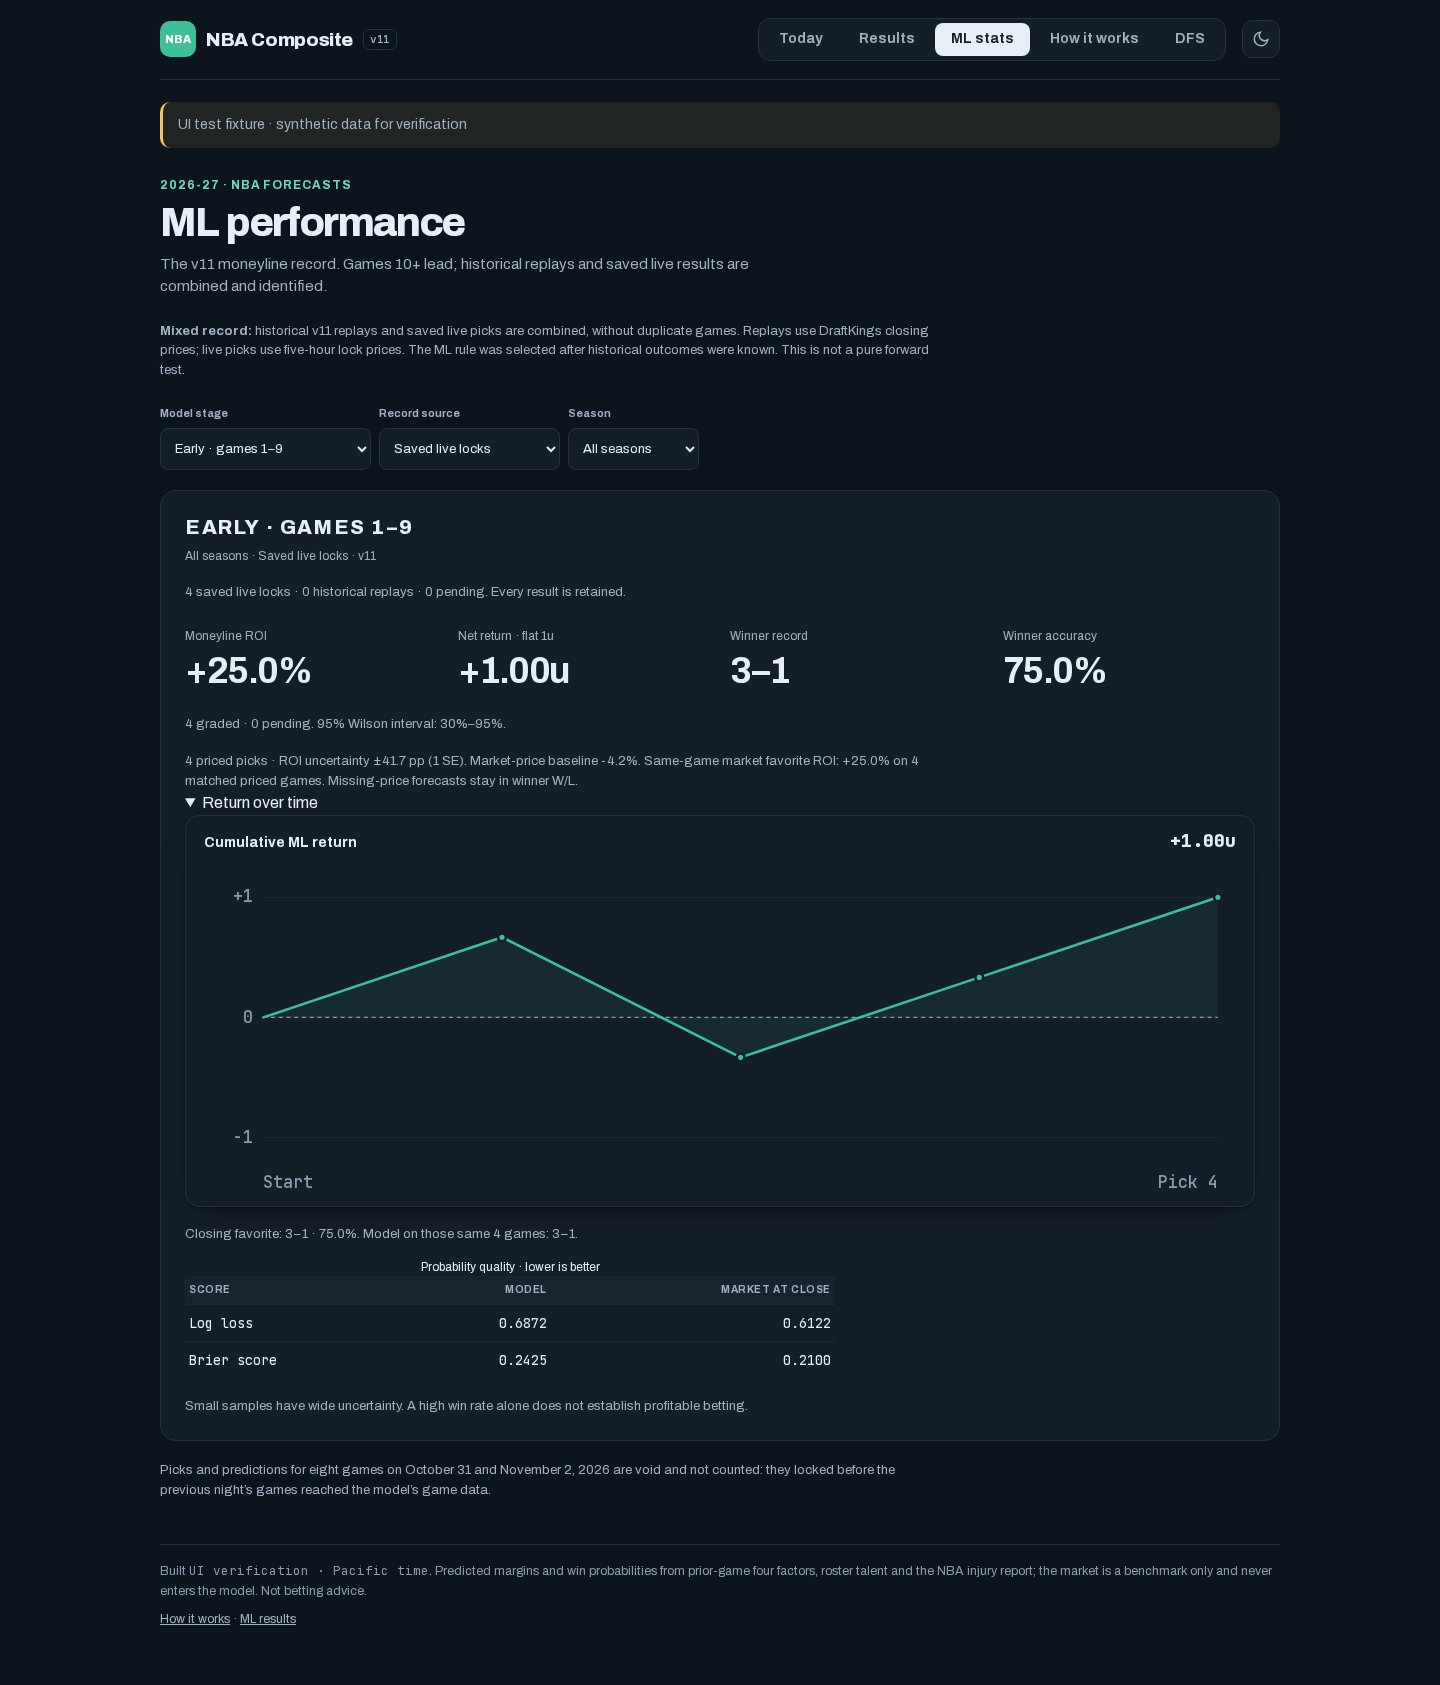
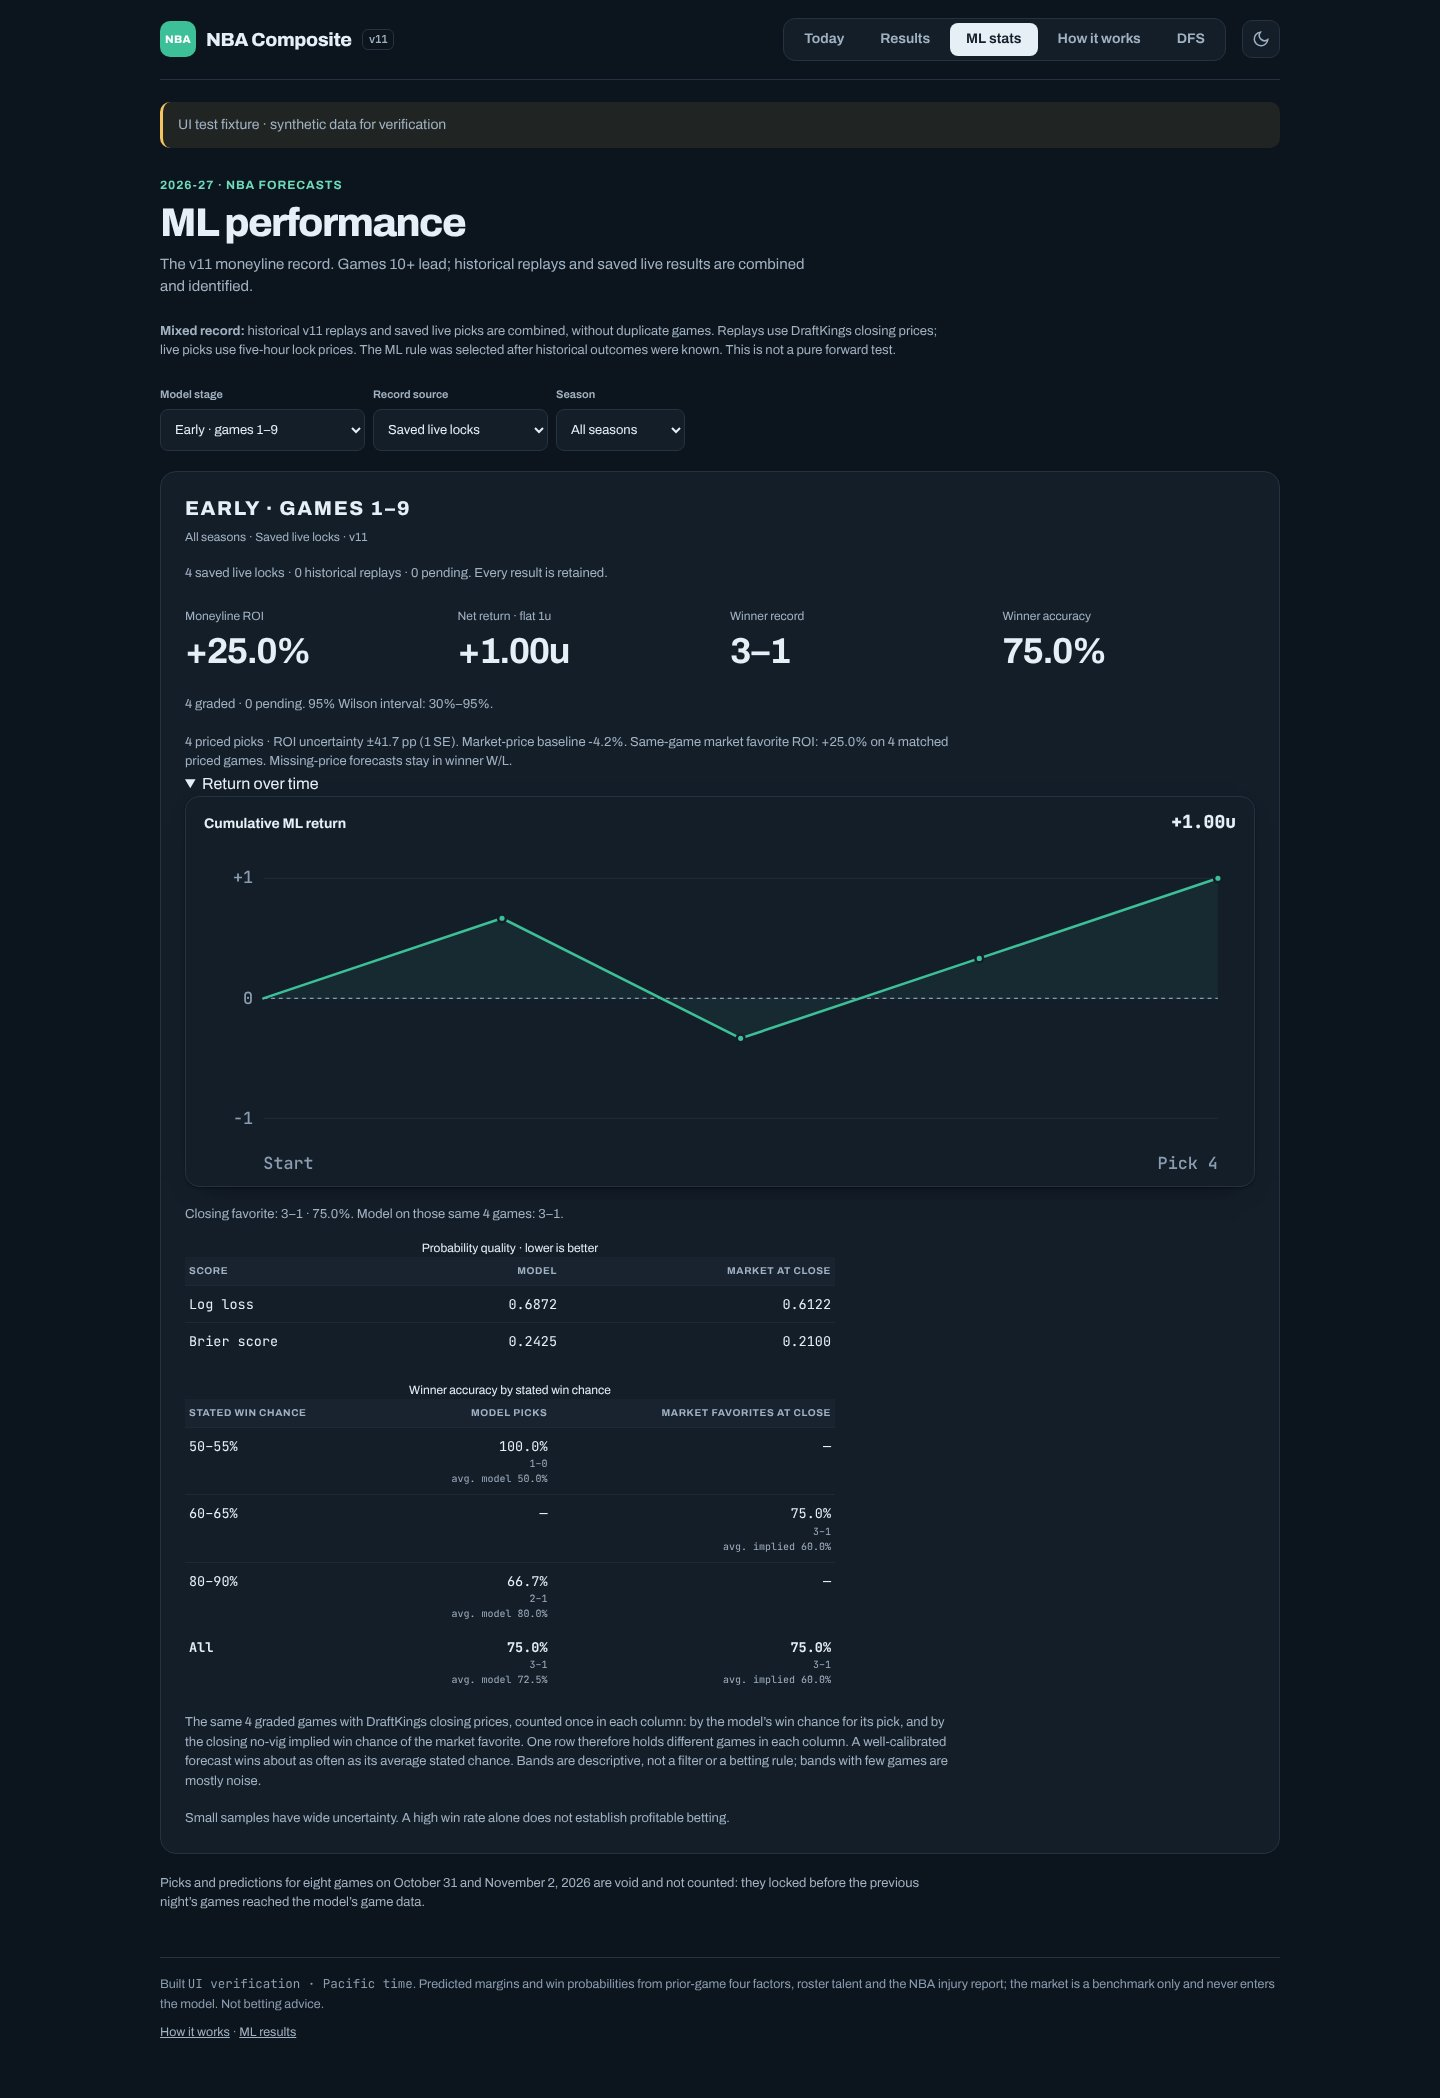
Public UI check: headline record scoped, band table asserted
The band table's All row repeats the matched W-L, so the check reads the
headline record from the metrics block and asserts the new table.
Performance and How it works screenshots refreshed.

Claude-Session: https://claude.ai/code/session_01Tymo9ECP9PMSX2RhFjmRQZ

diff --git a/research/check_public_ui.py b/research/check_public_ui.py
@@ -217,13 +217,16 @@ def main():
                     assert page.locator('[data-ml-panel]:visible').count()==1
                     page.get_by_label('Model stage',exact=True).select_option('early')
                     panel = page.locator('[data-ml-panel]:visible')
-                    assert panel.get_by_text('3–1',exact=True).count()==1
+                    assert panel.locator('.ml-metrics').get_by_text('3–1',exact=True).count()==1
+                    # the band table repeats the matched record in its All row
+                    assert panel.locator('[data-confidence-bands]').count()==1
+                    assert panel.locator('[data-confidence-bands] tfoot').get_by_text('3–1',exact=True).count()>=1
                     assert panel.get_by_text('Log loss',exact=True).count()==1
                     assert panel.get_by_text('Brier score',exact=True).count()==1
                     page.get_by_label('Record source',exact=True).select_option('replay')
                     assert page.locator('[data-ml-panel]:visible').get_by_text('No predictions in this view yet',exact=True).count()==1
                     page.get_by_label('Record source',exact=True).select_option('live')
-                    assert page.locator('[data-ml-panel]:visible').get_by_text('3–1',exact=True).count()==1
+                    assert page.locator('[data-ml-panel]:visible .ml-metrics').get_by_text('3–1',exact=True).count()==1
                     assert page.locator('#paper-performance').count()==0
                     checks.append(f'{device}: ML focus · 10+ default, separate early record, W/L, matched scores, source/outcome/stage filters, empty states and exclusion of betting tests passed')
                     panel = page.locator('[data-ml-panel]:visible')
